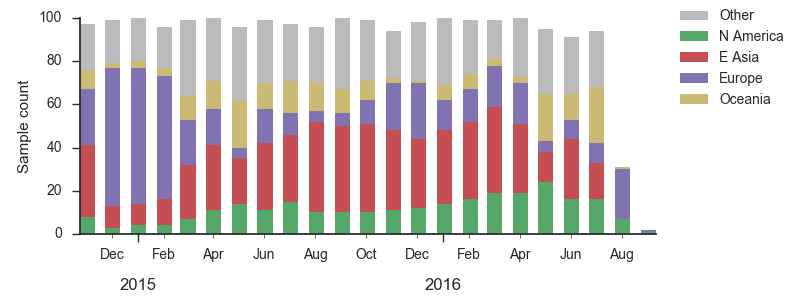
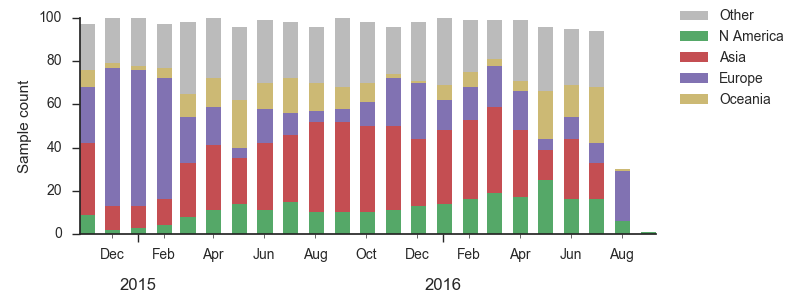
Update Sep report. Finished draft of H3N2 section.

diff --git a/auspice/reports/_posts/2016-09-16-sep-2016.html b/auspice/reports/_posts/2016-09-16-sep-2016.html
@@ -15,51 +15,57 @@ categories:
 	</div>
 	<div class="col-md-9">
 
-		<b>Despite the late season 3c3.a epidemic in the USA, we clade 3c2.a viruses to continue to predominate in the H3N2 population. Within clade 3c2.a, the 171K subclade has rapidly with the majority of recent H3N2 infections outside the USA being comprised of 171K viruses.</b>
+		<b>Despite the late season 3c3.a epidemic in the USA, we predict clade 3c2.a viruses will continue to predominate in the H3N2 population. Within clade 3c2.a, the 171K variant has spread rapidly with the majority of recent H3N2 infections comprised of 171K viruses. Barring the emergence of new antigenic variant, we believe 171K will continue to predominate.</b>
 
 		<div class="spacer"></div>
 
 		<!-- Discussion of sampling -->
 
-    We base our primary analysis on a set of viruses collected between Sep 2015 and Aug 2016, comprising approximately 100 viruses per month where available and seeking to equilibriate sample counts geographically where possible. This equilibration attempts to collect equal samples from Africa, China, Europe, Japan/South Korea, North America, Oceania, South America, South Asia, Southeast Asia and West Asia. In the following analysis we collapse samples from China, Southeast Asia, Japan and Korea into a single region that we're calling "East Asia", resulting in East Asia possessing greater sample counts than North America or Europe. The only month that significantly departs from equitable sampling is Aug 2016 with 38 viruses, primarily from Europe and North America. We subsample to 100 viruses per month and not more to keep sample counts as equitable as possible across space and time.
+    <p>We base our primary analysis on a set of viruses collected between Sep 2015 and Aug 2016, comprising approximately 100 viruses per month where available and seeking to equilibriate sample counts geographically where possible. This equilibration attempts to collect equal samples from Africa, China, Europe, Japan/South Korea, North America, Oceania, South America, South Asia, Southeast Asia and West Asia. In the following analysis we collapse samples from China, South Asia, Southeast Asia, Japan and Korea into a single region that we're calling "Asia", resulting in Asia possessing greater sample counts than North America or Europe. The only month that significantly departs from equitable sampling is Aug 2016 with 38 viruses, primarily from Europe and North America. We subsample to 100 viruses per month and not more to keep sample counts as equitable as possible across space and time.
 
 		{% embed_image /reports/figures/sep-2016/H3N2_counts.png 12 %}
 
 		<!-- Discussion of older 3c3.a, 3c3.b and 3c2.a clades -->
 
-    Viral clades 3c3.a, 3c3.b and 3c2.a emerged from the Texas/2012 background in early 2014 and rapidly spread through the viral population. Subsequently, we have observed competition among these clades, with 3c2.a viruses being globally dominant beginning in 2015. Recently, we have observed the steady decline of 3c3.b viruses. At this point, we estimate that they are either extinct or nearly extinct. 3c3.a viruses were largely replaced by 3c2.a viruses starting in 2015. However, we have observed an anomolous late-season epidemic of 3c3.a viruses within the USA from Jan to Aug 2016. Elsewhere in the world, 3c2.a viruses have remained dominant, particularly in E Asia, where we estimate 3c2.a frequencies to be >95% throughout 2016.
+    <p>Viral clades 3c3.a, 3c3.b and 3c2.a emerged from the Texas/2012 background in early 2014 and rapidly spread through the viral population. Subsequently, we have observed competition among these clades, with 3c2.a viruses being globally dominant beginning in 2015. Recently, we have observed the steady decline of 3c3.b viruses. At this point, we estimate that they are either extinct or nearly extinct. 3c3.a viruses were largely replaced by 3c2.a viruses starting in 2015. However, we have observed an anomolous late-season epidemic of 3c3.a viruses within the USA from Jan to Aug 2016. Elsewhere in the world, 3c2.a viruses have remained dominant, particularly in E Asia, where we estimate 3c2.a frequencies to be >95% throughout 2016.
 
 		{% embed_image /reports/figures/sep-2016/H3N2_clades.png 12 %}
 
 		<!-- Discussion of late season 3c2.a viruses in the USA -->
 
-    The late-season 3c3.a epidemic in the USA is puzzling. However, we suspect that this epidemic is due to epidemiologic circumstance rather than the emergence of a antigenically novel variant. The strongest evidence for this is that there is not a single clade within 3c3.a that is spreading throughout the USA. Instead, a variety of 3c3.a viruses are spreading, each with different HA1 mutations. The emergence and spread of an adaptive variant would have appeared as a single clade bearing a characteristic epitope mutation. This is not what we see. Because of this, we highly doubt that these 3c3.a viruses will spread globally. It is conceivable however, that the 2016-2017 USA epidemic could derive from over-summering transmission chains. This would be an unusual event, but not unheard of (<a href="http://bedford.io/papers/bedford-global-migration/">Bedford et al. 2010</a>).
+    <p>The late-season 3c3.a epidemic in the USA is puzzling. However, we suspect that this epidemic is due to epidemiologic circumstance rather than the emergence of a antigenically novel variant. The strongest evidence for this is that there is not a single clade within 3c3.a that is spreading throughout the USA. Instead, a variety of 3c3.a viruses are spreading, each with different HA1 mutations. The emergence and spread of an adaptive variant would have appeared as a single clade bearing a characteristic epitope mutation. This is not what we see. Because of this, we highly doubt that these 3c3.a viruses will spread globally. It is conceivable however, that the 2016-2017 USA epidemic could derive from over-summering transmission chains. This would be an unusual event, but not unheard of (<a href="http://bedford.io/papers/bedford-global-migration/">Bedford et al. 2010</a>).
 
 		{% embed_image /reports/figures/sep-2016/H3N2_3c3a_tree.png 12 %}
 
 		<!-- Discussion of variation within 3c2.a -->
 
-    The dominant 3c2.a viruses have continued to genetically diversify with emergence of multiple subclades. We observe 3 subclades of decent frequency in 2016 viruses. These are characterized by HA1 mutations 142K/197R, HA1 mutation 197K and HA1 mutation 171K + HA2 mutations 77V/155E. The 171K variant comprises approximately 54% of 3c2.a viruses collected in 2016.
+    <p>The dominant 3c2.a viruses have continued to genetically diversify with emergence of multiple subclades. We observe 3 subclades of decent frequency in 2016 viruses. These are characterized by HA1 mutations 142K/197R, HA1 mutation 197K and HA1 mutation 171K + HA2 mutations 77V/155E. The 171K variant comprises approximately 54% of 3c2.a viruses collected in 2016.
 
     {% embed_image /reports/figures/sep-2016/H3N2_3c2a_tree.png 12 %}
 
     <!-- Discussion of dynamics within 3c2.a and rise of 171K -->
 
-    The 142K/197R clade first emerged around June 2015 and rose to nearly 20% global frequency in Nov 2015. However, it's declined throughout 2016. We doubt this is a competitive virus. The 197K clade emerged in late 2015 and has slowly grown in frequency since. We estimate that it now comprises ~14% of H3N2 viruses. Notably however, 197K is at extremely low frequency in East Asia with an estimated present-day frequency ~2%. On the other hand, clade 171K viruses have done remarkdably well throughout 2016 and now comprise an estimated 69% of global H3N2 viruses.
+    <p>The 142K/197R clade first emerged around June 2015 and rose to nearly 20% global frequency in Nov 2015. However, it's declined throughout 2016. We doubt this is a competitive virus. The 197K clade emerged in late 2015 and has slowly grown in frequency since. We estimate that it now comprises ~14% of H3N2 viruses. Notably however, 197K is at extremely low frequency in East Asia with an estimated present-day frequency ~2%. On the other hand, clade 171K viruses have done remarkdably well throughout 2016 and now comprise an estimated 69% of currently circulating H3N2 viruses. This steady increase is strongly suggestive of an adaptive origin. Notably, 171K emerged and spread first in Asia, reaching nearly 80% frequency in April 2016. Higher frequency of 171K in Asia is expected to spread to the rest of the world given past geographic observations (<a href="http://bedford.io/papers/bedford-global-circulation/">Bedford et al. 2015</a>).
+
+    <p><i>Without strong competition from another novel H3N2 virus, we believe that 171K will continue to increase in frequency in the global population and predominant in the 2016-2017 influenza season.</i>
 
     {% embed_image /reports/figures/sep-2016/H3N2_mutations.png 12 %}
 
-		<p><i>Barring the emergence of significantly novel mutatants, we predict the (HA1:171K, HA2:77V/155E) variant to dominate.</i>
+    <!-- Discussion of LBI -->
 
-		{% embed_image /reports/figures/feb-2016/H3N2_mutations.png 12 %}
+    <p>Other indicators suggest evolutionary success of 171K viruses. Notably "local branching index" (<a href="https://elifesciences.org/content/3/e03568">Neher et al. 2014</a>) supports 171K as a high fitness virus. 3c3.a viruses and other clades within 3c2.a and do not show signal in the "local branching index" analysis.
+
+    {% embed_image /reports/figures/sep-2016/H3N2_LBI.png 12 %}
 
 		<!-- Discussion of antigenicity -->
 
-		Discussion of antigenicity...
+		<p>Unfortuantely, we lack sufficient recent serological data to distinguish antigenic evolution within 3c2.a and 3c3.a clades. The previous observations derive entirely from genetic data.
 
 		<!-- Discussion of basal viruses -->
 
-		Discussion of basal viruses...
+		<p>There are a variety of viruses at the base of the 171K clade, possessing HA1 171K along with HA2 77V/155E, but lacking further amino acid changes in HA.
+
+    {% embed_image /reports/figures/sep-2016/H3N2_171K_basal.png 12 %}
 
 	</div>
 </div>

diff --git a/auspice/reports/plot_clades.py b/auspice/reports/plot_clades.py
@@ -21,7 +21,7 @@ report = 'sep-2016'
 freqs = json.load(open('../data/'+virus+'_'+resolution+'_frequencies.json'))
 counts = json.load(open('../data/'+virus+'_'+resolution+'_meta.json'))['virus_stats']
 region_names = json.load(open('../data/'+virus+'_'+resolution+'_meta.json'))['regions']
-region_codes = {'EU':['europe'], 'AS':['china', 'japan_korea','southeast_asia'],
+region_codes = {'EU':['europe'], 'AS':['china', 'south_asia', 'japan_korea','southeast_asia'],
                 'NA':["north_america"], 'OC':["oceania"]}
 
 
@@ -51,7 +51,7 @@ offset = datetime(2000,1,1).toordinal()
 pivots = [offset+(x-2000)*365.25 for x in  freqs['clades']['global']['pivots']]
 pivots.pop()
 regions = ['global', 'NA', 'AS', 'EU', 'OC']
-region_label = {'global': 'Global', 'NA': 'N America', 'AS': 'E Asia', 'EU': 'Europe', 'OC': 'Oceania'}
+region_label = {'global': 'Global', 'NA': 'N America', 'AS': 'Asia', 'EU': 'Europe', 'OC': 'Oceania'}
 cols = sns.color_palette(n_colors=len(regions))
 fs=12
 
